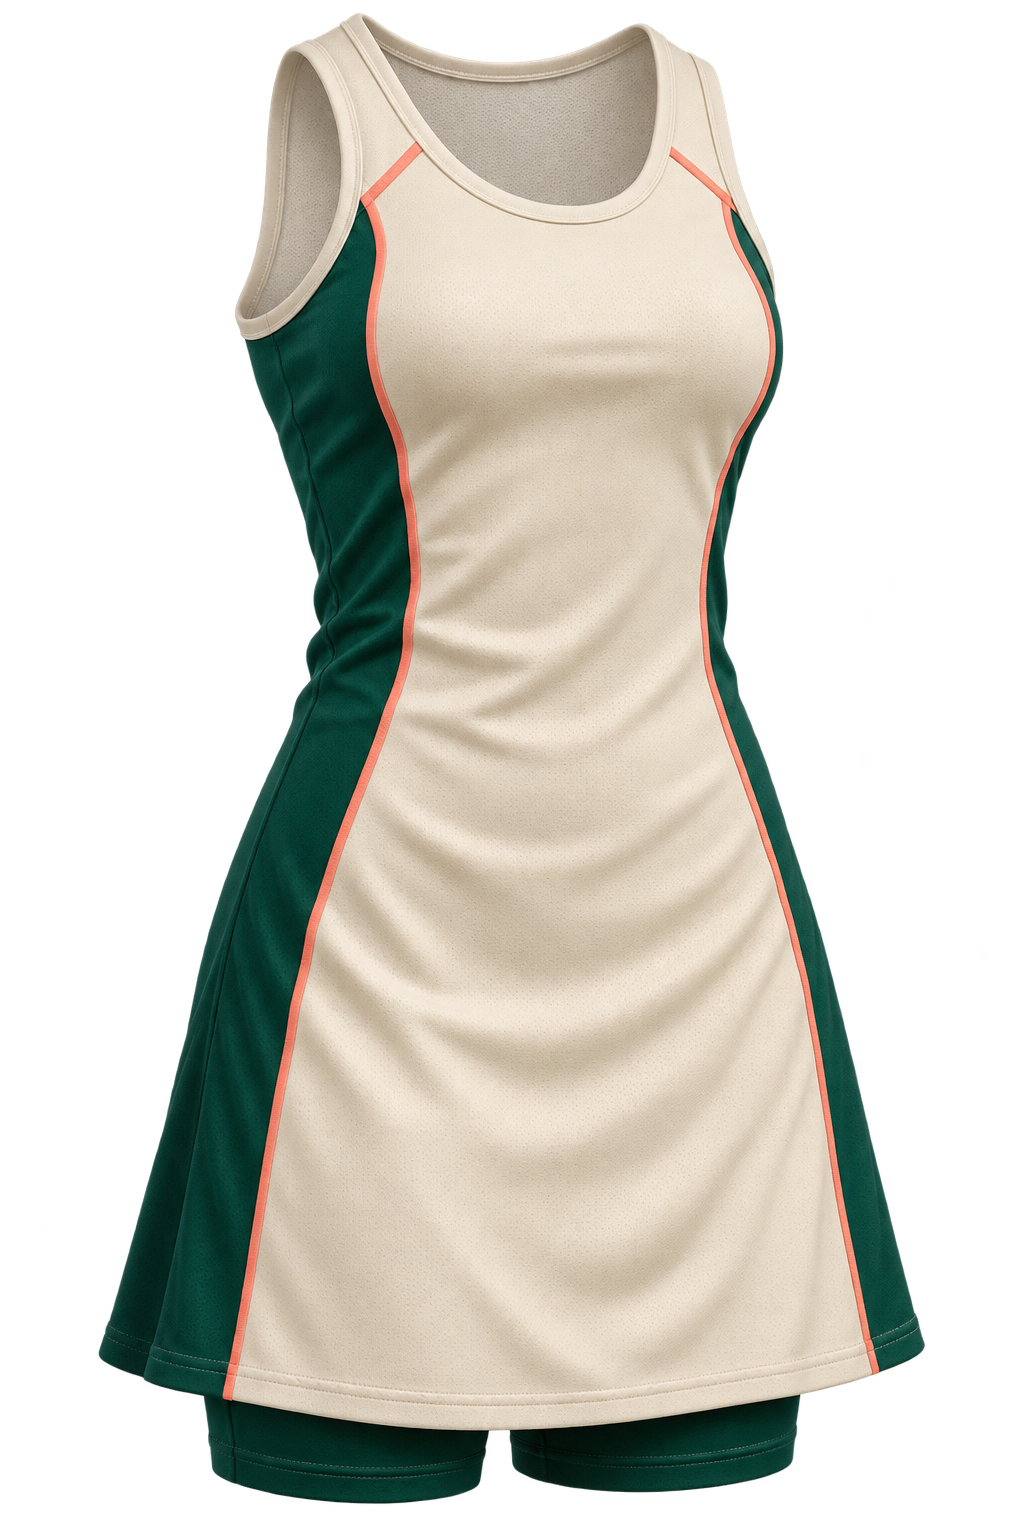
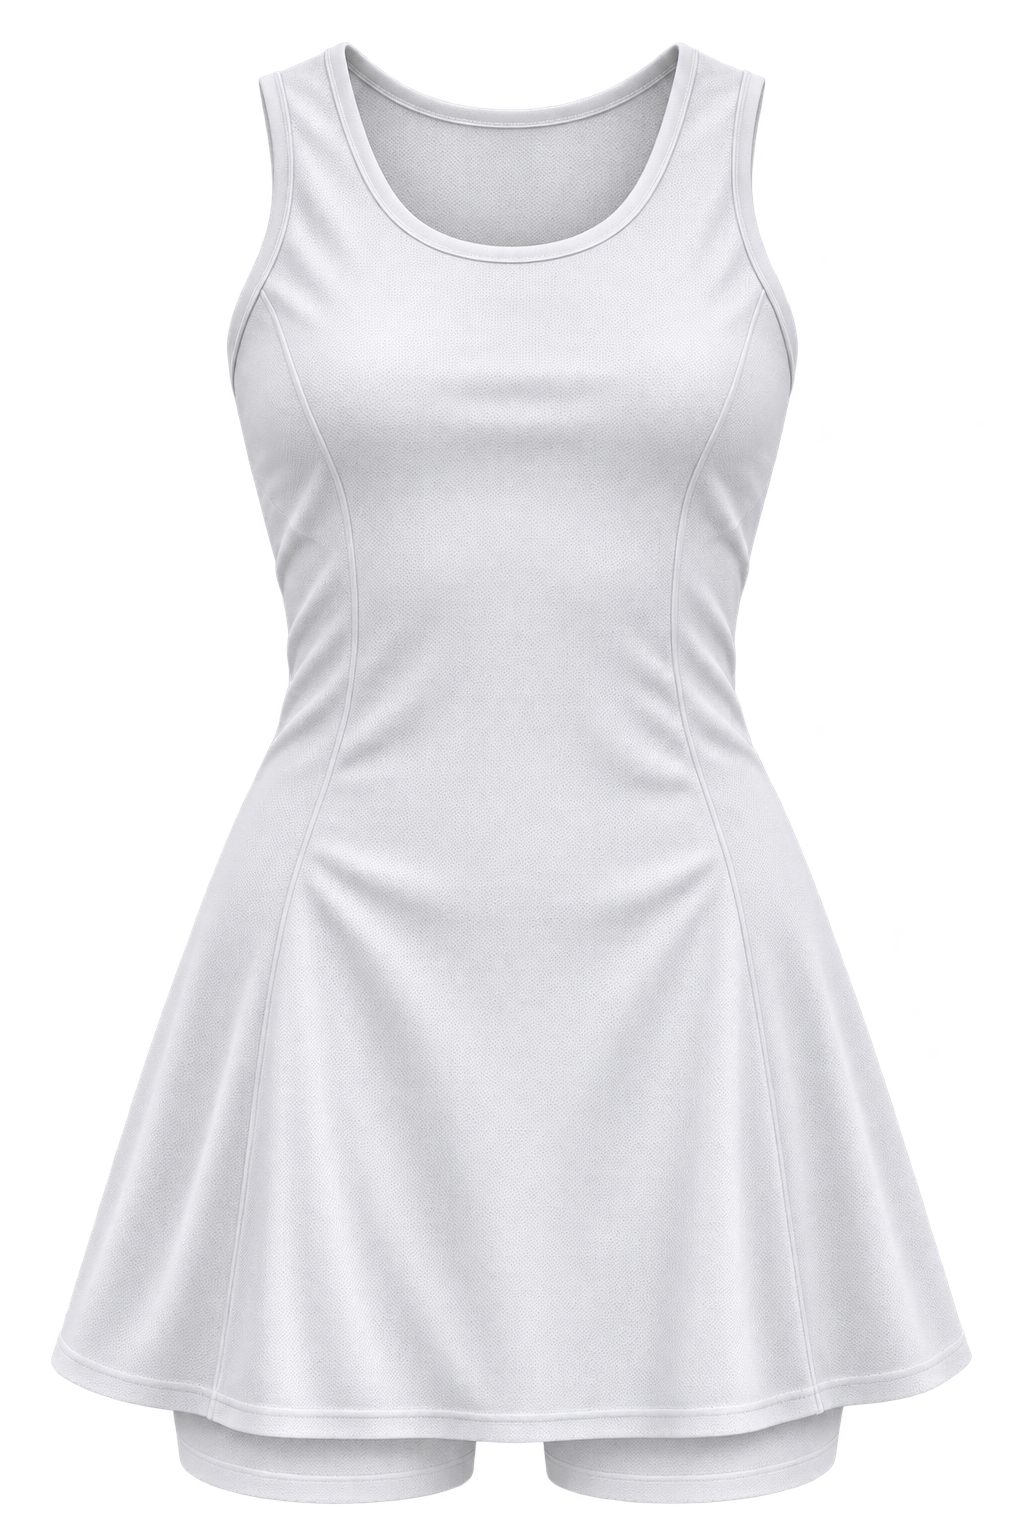
Add white netball uniform template

diff --git a/src/components/uniform-studio/ApprovedUniformGraphic.jsx b/src/components/uniform-studio/ApprovedUniformGraphic.jsx
@@ -10,7 +10,7 @@ const ASSET_BASE = import.meta.env.BASE_URL;
 const APPROVED_ASSETS = {
   soccer: `${ASSET_BASE}uploads/uniform-editor/approved-soccer-kit.png`,
   basketball: `${ASSET_BASE}uploads/uniform-editor/approved-basketball-kit.png`,
-  netball: `${ASSET_BASE}uploads/uniform-editor/approved-basketball-kit.png`,
+  netball: `${ASSET_BASE}uploads/uniform-editor/approved-netball-kit.png`,
   cricket: `${ASSET_BASE}uploads/uniform-editor/approved-cricket-kit.png`,
   goalkeeper: `${ASSET_BASE}uploads/uniform-editor/approved-goalkeeper-kit.png`,
   other: `${ASSET_BASE}uploads/uniform-editor/approved-other-kit.png`,
@@ -66,8 +66,9 @@ const KIT_REGIONS = {
     nativeSleeve: "sleeveless",
   },
   netball: {
-    shirtTop: 155, bottomStart: 735, kitBottom: 1225,
-    sleeveBottom: 390, shortSleeveBottom: 390, bodyLeft: 170, bodyRight: 410, collarY: 215,
+    spriteWidth: 1536, spriteHeight: 1024,
+    shirtTop: 20, bottomStart: 955, kitBottom: 1024,
+    sleeveBottom: 320, shortSleeveBottom: 320, bodyLeft: 245, bodyRight: 523, collarY: 132,
     nativeSleeve: "sleeveless",
   },
   cricket: {
@@ -125,10 +126,13 @@ export default function ApprovedUniformGraphic({
   const shapeMaskId = `approved-kit-shape-${uid}`;
   const sleeveGradientId = `approved-kit-sleeve-${uid}`;
   const asset = APPROVED_ASSETS[sport] || APPROVED_ASSETS.other;
-  const offset = view === "back" ? HALF_WIDTH : 0;
   const baseRegion = KIT_REGIONS[sport] || KIT_REGIONS.other;
+  const spriteWidth = baseRegion.spriteWidth || SPRITE_WIDTH;
+  const spriteHeight = baseRegion.spriteHeight || SPRITE_HEIGHT;
+  const halfWidth = spriteWidth / 2;
+  const offset = view === "back" ? halfWidth : 0;
   const region = { ...baseRegion, ...(baseRegion.views?.[view] || {}) };
-  const collarCenterX = offset + (region.centerX ?? HALF_WIDTH / 2);
+  const collarCenterX = offset + (region.centerX ?? halfWidth / 2);
   const opacityFor = (zone, base = 1) => (highlightZone && highlightZone !== zone ? base * 0.22 : base);
   const body = colors.body || "#f6f1e7";
   const sleeve = colors.sleeve || body;
@@ -143,6 +147,7 @@ export default function ApprovedUniformGraphic({
   const hasLeftLongSleeve = sleeveStyle === "Long" || sleeveStyle === "Mixed";
   const hasRightLongSleeve = sleeveStyle === "Long";
   const nativeLongSleeve = region.nativeSleeve === "long";
+  const nativeSleeveless = region.nativeSleeve === "sleeveless";
   const shortSleeveBottom = region.shortSleeveBottom || region.sleeveBottom;
   const longSleeveBottom = nativeLongSleeve
     ? region.sleeveBottom
@@ -182,7 +187,7 @@ export default function ApprovedUniformGraphic({
     if (left) {
       return `M${offset},${shortSleeveBottom} H${offset + region.bodyLeft + 8} L${offset + region.bodyLeft + 5},${region.sleeveBottom} H${offset} Z`;
     }
-    return `M${offset + HALF_WIDTH},${shortSleeveBottom} H${offset + region.bodyRight - 8} L${offset + region.bodyRight - 5},${region.sleeveBottom} H${offset + HALF_WIDTH} Z`;
+    return `M${offset + halfWidth},${shortSleeveBottom} H${offset + region.bodyRight - 8} L${offset + region.bodyRight - 5},${region.sleeveBottom} H${offset + halfWidth} Z`;
   };
   const longCuffPath = (side) => {
     const left = side === "left";
@@ -197,32 +202,32 @@ export default function ApprovedUniformGraphic({
   return (
     <svg
       data-uniform-view={view}
-      viewBox={`${offset} 0 ${HALF_WIDTH} ${SPRITE_HEIGHT}`}
+      viewBox={`${offset} 0 ${halfWidth} ${spriteHeight}`}
       preserveAspectRatio="xMidYMid meet"
       className="h-full w-full overflow-hidden"
       role="img"
       aria-label={`${sport} complete uniform ${view}`}
     >
       <defs>
-        <mask id={maskId} maskUnits="userSpaceOnUse" x="0" y="0" width={SPRITE_WIDTH} height={SPRITE_HEIGHT}>
-          <image href={asset} x="0" y="0" width={SPRITE_WIDTH} height={SPRITE_HEIGHT} />
+        <mask id={maskId} maskUnits="userSpaceOnUse" x="0" y="0" width={spriteWidth} height={spriteHeight}>
+          <image href={asset} x="0" y="0" width={spriteWidth} height={spriteHeight} />
         </mask>
-        <mask id={jerseyMaskId} maskUnits="userSpaceOnUse" x="0" y="0" width={SPRITE_WIDTH} height={SPRITE_HEIGHT}>
-          <image href={asset} x="0" y="0" width={SPRITE_WIDTH} height={SPRITE_HEIGHT} />
-          <rect x="0" y={region.bottomStart} width={SPRITE_WIDTH} height={SPRITE_HEIGHT - region.bottomStart} fill="black" />
+        <mask id={jerseyMaskId} maskUnits="userSpaceOnUse" x="0" y="0" width={spriteWidth} height={spriteHeight}>
+          <image href={asset} x="0" y="0" width={spriteWidth} height={spriteHeight} />
+          <rect x="0" y={region.bottomStart} width={spriteWidth} height={spriteHeight - region.bottomStart} fill="black" />
         </mask>
-        <mask id={shortsMaskId} maskUnits="userSpaceOnUse" x="0" y="0" width={SPRITE_WIDTH} height={SPRITE_HEIGHT}>
-          <image href={asset} x="0" y="0" width={SPRITE_WIDTH} height={SPRITE_HEIGHT} />
-          <rect x="0" y="0" width={SPRITE_WIDTH} height={region.bottomStart} fill="black" />
-          <rect x="0" y={bottomEnd} width={SPRITE_WIDTH} height={SPRITE_HEIGHT - bottomEnd} fill="black" />
+        <mask id={shortsMaskId} maskUnits="userSpaceOnUse" x="0" y="0" width={spriteWidth} height={spriteHeight}>
+          <image href={asset} x="0" y="0" width={spriteWidth} height={spriteHeight} />
+          <rect x="0" y="0" width={spriteWidth} height={region.bottomStart} fill="black" />
+          <rect x="0" y={bottomEnd} width={spriteWidth} height={spriteHeight - bottomEnd} fill="black" />
         </mask>
-        <mask id={socksMaskId} maskUnits="userSpaceOnUse" x="0" y="0" width={SPRITE_WIDTH} height={SPRITE_HEIGHT}>
-          <image href={asset} x="0" y="0" width={SPRITE_WIDTH} height={SPRITE_HEIGHT} />
-          <rect x="0" y="0" width={SPRITE_WIDTH} height={region.socksStart || SPRITE_HEIGHT} fill="black" />
+        <mask id={socksMaskId} maskUnits="userSpaceOnUse" x="0" y="0" width={spriteWidth} height={spriteHeight}>
+          <image href={asset} x="0" y="0" width={spriteWidth} height={spriteHeight} />
+          <rect x="0" y="0" width={spriteWidth} height={region.socksStart || spriteHeight} fill="black" />
         </mask>
-        <mask id={shapeMaskId} maskUnits="userSpaceOnUse" x={offset} y="0" width={HALF_WIDTH} height={SPRITE_HEIGHT}>
-          <rect x={offset} y="0" width={HALF_WIDTH} height={SPRITE_HEIGHT} fill="white" />
-          {isSleeveless && (
+        <mask id={shapeMaskId} maskUnits="userSpaceOnUse" x={offset} y="0" width={halfWidth} height={spriteHeight}>
+          <rect x={offset} y="0" width={halfWidth} height={spriteHeight} fill="white" />
+          {isSleeveless && !nativeSleeveless && (
             <>
               <path d={baseSleevePath("left", false, region.sleeveBottom)} fill="black" />
               <path d={baseSleevePath("right", false, region.sleeveBottom)} fill="black" />
@@ -255,7 +260,7 @@ export default function ApprovedUniformGraphic({
       )}
 
       <g mask={`url(#${shapeMaskId})`}>
-        <image href={asset} x="0" y="0" width={SPRITE_WIDTH} height={SPRITE_HEIGHT} />
+        <image href={asset} x="0" y="0" width={spriteWidth} height={spriteHeight} />
 
         {/* Start with one shirt/body color across the complete torso, then let
             the sleeve layer replace only the sleeves. There is deliberately no
@@ -263,7 +268,7 @@ export default function ApprovedUniformGraphic({
         <TintLayer mask={maskId} fill={body} opacity={opacityFor("body")}>
           {(fill) => region.bodyPolygon
             ? <path d={polygonPath(region.bodyPolygon)} fill={fill} />
-            : <rect x={offset} y={region.shirtTop} width={HALF_WIDTH} height={region.bottomStart - region.shirtTop} fill={fill} />}
+            : <rect x={offset} y={region.shirtTop} width={halfWidth} height={region.bottomStart - region.shirtTop} fill={fill} />}
         </TintLayer>
 
         {!isSleeveless && (
@@ -284,7 +289,7 @@ export default function ApprovedUniformGraphic({
             : <rect
                 x={offset}
                 y={region.bottomStart}
-                width={HALF_WIDTH}
+                width={halfWidth}
                 height={bottomEnd - region.bottomStart}
                 fill={fill}
               />
@@ -297,7 +302,7 @@ export default function ApprovedUniformGraphic({
             <rect
               x={offset}
               y={region.socksStart}
-              width={HALF_WIDTH}
+              width={halfWidth}
               height={region.kitBottom - region.socksStart}
               fill={fill}
             />
@@ -308,7 +313,7 @@ export default function ApprovedUniformGraphic({
         <TintLayer mask={maskId} fill={shirtEnd} opacity={opacityFor("shirtStrip")}>
           {(fill) => region.shirtEndPolygon
             ? <path d={polygonPath(region.shirtEndPolygon)} fill={fill} />
-            : <rect x={offset} y={region.bottomStart - 18} width={HALF_WIDTH} height="18" fill={fill} />}
+            : <rect x={offset} y={region.bottomStart - 18} width={halfWidth} height="18" fill={fill} />}
         </TintLayer>
 
         {!isSleeveless && <TintLayer mask={maskId} fill={sleeveEnd} opacity={opacityFor("sleeveStrip")}>
@@ -337,7 +342,7 @@ export default function ApprovedUniformGraphic({
         {(fill) => (
             region.shortsEndPolygon
               ? <path d={polygonPath(region.shortsEndPolygon)} fill={fill} />
-              : <rect x={offset} y={bottomEnd - 22} width={HALF_WIDTH} height="22" fill={fill} />
+              : <rect x={offset} y={bottomEnd - 22} width={halfWidth} height="22" fill={fill} />
         )}
         </TintLayer>
       </g>
@@ -367,7 +372,7 @@ export default function ApprovedUniformGraphic({
       {/* Collar controls need to change the visible cut, not only a stored
           option. These clean vector overlays sit over the photographed collar
           and deliberately differ enough to be obvious at editor scale. */}
-      <g
+      {!(sport === "netball" && collar === "Crew") && <g
         opacity={opacityFor("collar")}
         data-collar-shape={collar}
         data-collar-color={collarColor}
@@ -407,7 +412,7 @@ export default function ApprovedUniformGraphic({
             <circle cx={collarCenterX} cy={region.collarY + 57} r="3" fill={body} />
           </>
         )}
-      </g>
+      </g>}
 
       {!isSleeveless && !nativeLongSleeve && (
         <g opacity={opacityFor("sleeveStrip")}>
